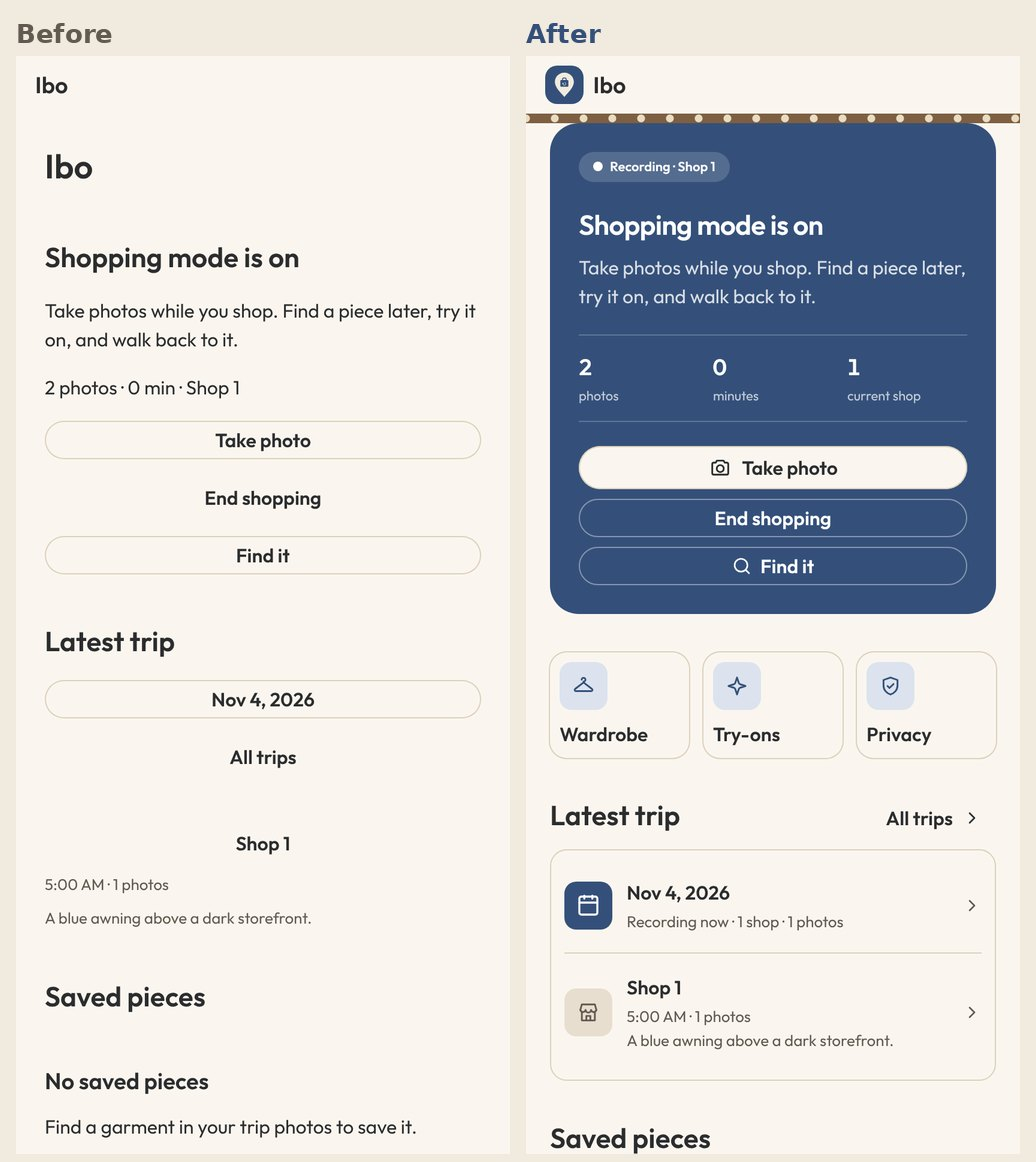
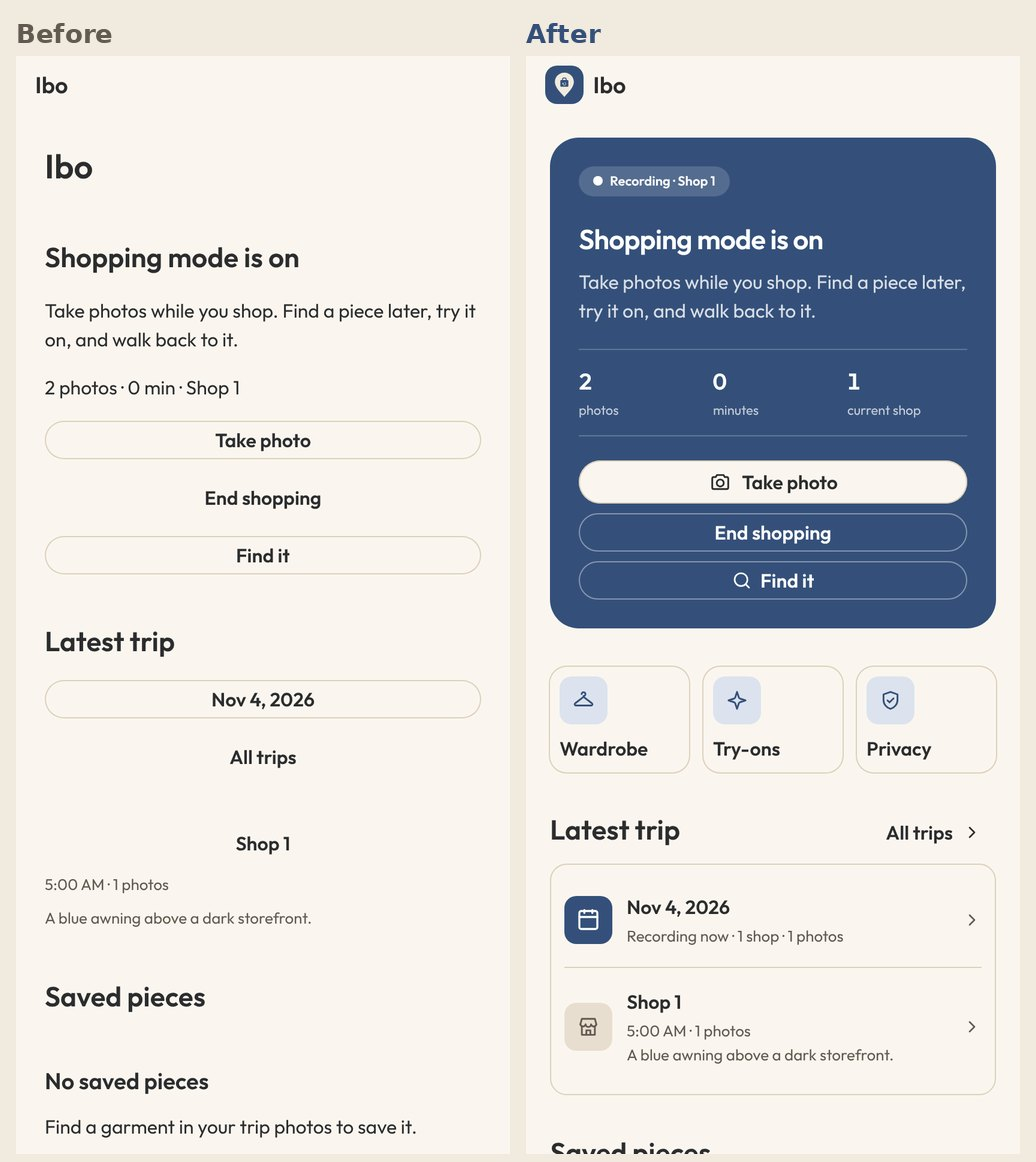
Smooth navigation and tap flows; remove the eave strip
- Back restores each page's scroll position; transitions follow direction
  (forward/back/replace) and returning screens skip list entrance motion.
- Ignore a duplicate push of the same page and a double-tapped Back.
- Trip lands on the chosen shop once, no longer jumping on every refresh
  or when coming back.
- Find it closes the keyboard on search, glides to results once, and
  Ask again returns focus to the search box. Pick scrolls to the photo
  when switching to tap mode.
- Sticky bottom bar for Pick's main action and Try on's Generate, with the
  reason Generate is unavailable shown beside it; toasts sit above it.
- Web runtime: load the App and Geolocation plugin web code while online,
  so opening Walk without a connection reaches its offline state.
- Remove the eave pattern strip under the top bar.
- Refresh before/after screenshots; add loading and flow captures.

Claude-Session: https://claude.ai/code/session_01NkTDXqwRET17FkWcUSqKbY

diff --git a/app/src/screens/Search.tsx b/app/src/screens/Search.tsx
@@ -7,7 +7,8 @@ import {candidateId} from '../data';
 import {imageUrl} from '../ui/images';
 import {useData, useUi} from '../ui/state';
 import {Spinner} from '@astryxdesign/core/Spinner';
-import {Action, Button, Chip, Confirm, Empty, Eyebrow, Heading, Hint, HStack, Icon, IconTile, Panel, Pop, Problem, Reveal, RowButton, SkeletonCard, SkeletonPhoto, SkeletonRows, SkeletonText, Text, TextInput, VStack} from '../ui/components';
+import {Action, Button, Chip, Confirm, Empty, Eyebrow, Heading, Hint, HStack, Icon, IconTile, Panel, Pop, Problem, Reveal, RowButton, SkeletonCard, StickyBar, SkeletonPhoto, SkeletonRows, SkeletonText, Text, TextInput, VStack} from '../ui/components';
+import {reducedMotion, returning} from '../ui/easing';
 import {ImageIcon, SendIcon, ShieldIcon, SparkleIcon, StoreIcon, TrashIcon} from '../ui/icons';
 
 type PickRoute = Extract<Route, {name: 'pick'}>;
@@ -338,6 +339,8 @@ export function Ask() {
     if (!query.trim()) return;
     setText(query);
     lastAttempt.current = {kind: 'text', query};
+    // Close the on-screen keyboard so the search progress and results are visible.
+    if (document.activeElement instanceof HTMLElement) document.activeElement.blur();
     if (!online) {setOperationError('offline'); return;}
     perform(() => agent.submit(query));
   };
@@ -346,7 +349,23 @@ export function Ask() {
     if (!online) {setOperationError('offline'); return;}
     perform(() => agent.startVoice());
   };
-  const askAgain = () => perform(async () => {await agent.cancel(); if (live.current) setText('');});
+  const searchBox = useRef<HTMLElement>(null);
+  const resultsTop = useRef<HTMLElement>(null);
+  const askAgain = () => perform(async () => {
+    await agent.cancel();
+    if (!live.current) return;
+    setText('');
+    // Bring the person back to the empty search box, ready to type.
+    searchBox.current?.scrollIntoView({block: 'center', behavior: reducedMotion() ? 'auto' : 'smooth'});
+    searchBox.current?.querySelector('input')?.focus({preventScroll: true});
+  });
+  // When a search finishes, glide to the answer once instead of leaving it below the fold.
+  const shownResults = useRef<string | null>(null);
+  useEffect(() => {
+    if (state.status !== 'results' || !state.query || shownResults.current === state.query || returning()) {if (state.status === 'results') shownResults.current = state.query; return;}
+    shownResults.current = state.query;
+    resultsTop.current?.scrollIntoView({block: 'start', behavior: reducedMotion() ? 'auto' : 'smooth'});
+  }, [state.status, state.query]);
   const status = operationError ? 'error' : state.status;
   const steps = operationError ? [] : searchSteps(state);
   const finished = status === 'results' || status === 'not_found' || status === 'error';
@@ -358,7 +377,9 @@ export function Ask() {
   return <VStack gap={5}>
     <Panel gap={3}>
       <HStack gap={2} vAlign="center"><Icon icon={SparkleIcon} size="sm" color="accent"/><Text type="supporting">Search across all your trips</Text></HStack>
+      <VStack ref={searchBox}>
       <TextInput type="search" label="Describe the item" value={text} onChange={setText} onEnter={() => submit()} placeholder="e.g. the jacket at the blue tarp stall" isDisabled={listening || transcribing} hasClear />
+      </VStack>
       <HStack gap={3} wrap="wrap">
         <Button label={listening ? 'Stop listening' : 'Speak'} variant={listening ? 'primary' : 'secondary'} icon={<Icon icon={listening ? 'stop' : 'microphone'}/>} isDisabled={transcribing || (status === 'running' && !listening)} onClick={() => {if (listening) perform(() => agent.stopVoice()); else startVoice();}} />
         <Button label="Find" variant={listening ? 'secondary' : 'primary'} icon={<Icon icon="search"/>} style={{flex: 1}} isDisabled={!text.trim() || listening || transcribing} onClick={() => submit()} />
@@ -382,7 +403,7 @@ export function Ask() {
       <Eyebrow>Try one of these</Eyebrow>
       {examples.map((example, index) => <Reveal key={example} index={index}><RowButton label={example} start={<Icon icon="search" size="sm" color="secondary"/>} end={<Icon icon={SendIcon} size="sm" color="secondary"/>} onClick={() => submit(example)} /></Reveal>)}
     </VStack>}
-    {status === 'results' && <VStack gap={4}>
+    {status === 'results' && <VStack gap={4} ref={resultsTop} style={{scrollMarginTop: 'var(--spacing-4)'}}>
       {state.summary && <Reveal from="scale"><HStack gap={3} vAlign="start" padding={4} style={{background: 'var(--color-hero)', color: 'var(--color-on-hero)', borderRadius: 'var(--radius-container)'}}><Icon icon={SparkleIcon} size="md" color="inherit"/><Text type="large" weight="semibold" color="inherit">{state.summary}</Text></HStack></Reveal>}
       {state.photos.map((photo, index) => <SearchResult key={photo.id} photo={photo} index={index} concept={state.concept} candidates={state.visibleCandidates.filter(candidate => candidate.photoId === photo.id)} allCandidates={state.candidates.filter(candidate => candidate.photoId === photo.id)} />)}
       {!state.photos.length && <Empty title="These photos are no longer available"><Text>Browse your trips or ask another question.</Text></Empty>}
@@ -398,6 +419,7 @@ export function Ask() {
 
 function PickPhoto({route, source}: {route: PickRoute; source: PickSource}) {
   const {services, online, push, back, popTo, deleted, say} = useUi();
+  const photoArea = useRef<HTMLElement>(null);
   const {photo, shop, trip} = source;
   const {id, file, w, h} = source.asset;
   const asset = useMemo(() => ({id, file, w, h}), [id, file, w, h]);
@@ -582,7 +604,7 @@ function PickPhoto({route, source}: {route: PickRoute; source: PickSource}) {
       }} />
       <Confirm title="Delete photo?" description="This photo will be removed from your trip. Saved items and their walking directions will stay." action="Delete photo" icon={<Icon icon={TrashIcon}/>} onConfirm={async () => {await lifecycle.current.tap; await services.store.deletePhoto({id: photo.id}); deleted('Photo', photo.id); say('Photo deleted');}} />
     </HStack>}
-    <PhotoSurface asset={asset} candidates={visibleCandidates} selected={selected} cache={cache} point={tapping ? point : null} disabled={saving || (tapping && (preparing || segmenting || Boolean(prepareError)))} onTap={tapping ? tap : undefined} onSelect={tapping ? undefined : setSelected} onReady={onReady} />
+    <VStack ref={photoArea} style={{scrollMarginTop: 'var(--spacing-4)'}}><PhotoSurface asset={asset} candidates={visibleCandidates} selected={selected} cache={cache} point={tapping ? point : null} disabled={saving || (tapping && (preparing || segmenting || Boolean(prepareError)))} onTap={tapping ? tap : undefined} onSelect={tapping ? undefined : setSelected} onReady={onReady} /></VStack>
     {tapping && !point && <Chip tone="accent">Tap the item in the photo</Chip>}
     {preparing && <HStack gap={2} vAlign="center"><Spinner size="sm" aria-label="Preparing"/><Text role="status" type="supporting">Preparing on-device item selection…</Text></HStack>}
     {prepareError && <Problem message={errorMessage(prepareError)} retry={() => setPrepareAttempt(value => value + 1)} />}
@@ -599,13 +621,15 @@ function PickPhoto({route, source}: {route: PickRoute; source: PickSource}) {
       /></Reveal>)}
       {choices.length > 3 && <Button label={showAll ? 'Show first 3' : `Show all (${choices.length})`} variant="secondary" isDisabled={saving} onClick={() => {setShowAll(value => !value); if (showAll && selected && !choices.slice(0, 3).some(choice => choice.candidate.id === selected)) setSelected(null);}} />}
     </VStack>}
-    {matches.length > 0 && <Button label={tapping ? 'Show matches' : 'Not here? Tap it'} variant="ghost" isDisabled={saving} onClick={() => {clearTap(); setTapping(value => !value); setShowAll(false); if (tapping) setSelected(matches[0]?.id ?? null);}} />}
+    {matches.length > 0 && <Button label={tapping ? 'Show matches' : 'Not here? Tap it'} variant="ghost" isDisabled={saving} onClick={() => {clearTap(); setTapping(value => !value); setShowAll(false); if (tapping) setSelected(matches[0]?.id ?? null); else requestAnimationFrame(() => photoArea.current?.scrollIntoView({block: 'start', behavior: reducedMotion() ? 'auto' : 'smooth'}));}} />}
     {tapping && (tapChoices.length > 0 || segmenting) && <Button label="Cancel area selection" variant="ghost" isDisabled={saving} onClick={clearTap} />}
+    <StickyBar>
     {atLimit && <Problem message="Your outfit already has five companion pieces. Return to the outfit to remove one first." />}
     {saveError && <Problem message={errorMessage(saveError)} retry={maskReady && !atLimit ? complete : undefined} />}
     {chosen && !route.concept && <Text type="supporting">This will be saved as “Picked item” while its name and category are prepared. You can edit them after saving.</Text>}
     <Button label={route.mode === 'wardrobe' ? 'Add to wardrobe' : route.mode === 'outfit' ? 'Add to outfit' : 'Use this item'} variant="primary" size="lg" isLoading={saving} isDisabled={!chosen || !maskReady || segmenting || atLimit} onClick={complete} />
     <Button label={route.mode === 'outfit' ? 'Cancel and return to outfit' : 'Cancel'} variant="ghost" onClick={() => {if (route.mode === 'outfit') popTo('outfit'); else back();}} />
+    </StickyBar>
   </VStack>;
 }
 

diff --git a/app/src/ui/Shell.tsx b/app/src/ui/Shell.tsx
@@ -3,6 +3,7 @@ import {useEffect, useRef} from 'react';
 import type {ReactNode} from 'react';
 import {App as CapacitorApp} from '@capacitor/app';
 import {Capacitor} from '@capacitor/core';
+import {Geolocation} from '@capacitor/geolocation';
 import {AppShell} from '@astryxdesign/core/AppShell';
 import {TopNav,TopNavHeading} from '@astryxdesign/core/TopNav';
 import {BottomSheet} from '@astryxdesign/core/BottomSheet';
@@ -24,33 +25,72 @@ export function Shell({children}:{children:ReactNode}) {
     const escape=(event:KeyboardEvent)=>{if(event.key==='Escape'&&!document.querySelector('dialog[open]'))backRef.current();};
     window.addEventListener('keydown',escape);
     const listener=Capacitor.isNativePlatform()?CapacitorApp.addListener('backButton',()=>backRef.current()):null;
+    // Web runtime only: Capacitor loads each plugin's web code on first use. Load the ones Walk needs now,
+    // while online, so opening Walk later without a connection still reaches its offline state instead of failing.
+    if(!Capacitor.isNativePlatform()){void CapacitorApp.getState().catch(()=>{});void Geolocation.checkPermissions().catch(()=>{});}
     return()=>{window.removeEventListener('keydown',escape);void listener?.then(handle=>handle.remove());};
   },[]);
+  // Remember where each page in the stack was scrolled, so Back returns to the same spot instead of the top.
+  const positions=useRef<number[]>([]);
+  const depth=useRef(stack.length);
   useEffect(()=>{
-    body.current?.scrollIntoView({block:'start'});
-    if(route.name!=='capture'&&!window.matchMedia('(prefers-reduced-motion: reduce)').matches) body.current?.animate([{opacity:0,transform:'translateX(2%)'},{opacity:1,transform:'none'}],{duration:240,easing:EASE_OUT});
+    const save=(event:Event)=>{const target=event.target;if(target instanceof HTMLElement&&body.current&&target.contains(body.current))positions.current[depth.current-1]=target.scrollTop;};
+    window.addEventListener('scroll',save,true);
+    return()=>window.removeEventListener('scroll',save,true);
+  },[]);
+  useEffect(()=>{
+    const previous=depth.current;depth.current=stack.length;
+    const direction=stack.length>previous?'forward':stack.length<previous?'back':'replace';
+    positions.current.length=stack.length;
+    const scroller=scrollParent(body.current);
+    let frame=0;
+    if(direction==='back'&&scroller&&positions.current[stack.length-1]){
+      // The page re-renders from saved data; keep trying for a moment until it is tall enough to restore.
+      const target=positions.current[stack.length-1];let tries=0;
+      const restore=()=>{scroller.scrollTop=target;if(Math.abs(scroller.scrollTop-target)>2&&tries++<45)frame=requestAnimationFrame(restore);};
+      restore();
+    }else{
+      positions.current[stack.length-1]=0;
+      if(scroller)scroller.scrollTop=0;else body.current?.scrollIntoView({block:'start'});
+    }
+    if(route.name!=='capture'&&!reducedMotion()){
+      const offset=direction==='forward'?'1.5rem':direction==='back'?'-1.5rem':'0';
+      body.current?.animate([{opacity:0,transform:`translateX(${offset})`},{opacity:1,transform:'none'}],{duration:direction==='replace'?180:280,easing:EASE_OUT});
+    }
     if(!stack.some(entry=>entry.name==='ask'||entry.name==='pick'))void services.agent.cancel().catch(()=>{});
+    return()=>cancelAnimationFrame(frame);
   },[route,stack,services]);
   const home=route.name==='home';
   const brand=<TopNavHeading heading="Ibo" logo={<VStack aria-hidden align="center" justify="center" width="var(--spacing-8)" height="var(--spacing-8)" style={{background:'var(--color-hero)',borderRadius:'var(--radius-element)'}}><IboMark size={26}/></VStack>}/>;
   const heading=stack.length>1?<IconButton label="Back" variant="ghost" icon={<Icon icon={ArrowBackIcon}/>} onClick={back}/>:brand;
-  const nav=<VStack width="100%"><TopNav label="Ibo navigation" heading={heading}/><VStack aria-hidden width="100%" height="var(--spacing-2)" style={{background:'var(--pattern-eave)'}}/></VStack>;
+  const nav=<TopNav label="Ibo navigation" heading={heading}/>;
   return <AppShell variant="surface" contentPadding={capturing?3:5} mobileNav={false} topNav={nav} banner={!online?<HStack gap={2} vAlign="center" hAlign="center" paddingBlock={2} paddingInline={4} style={{background:'var(--color-warning-muted)',color:'var(--color-on-warning-muted)'}}><Icon icon={WifiOffIcon} size="sm" color="inherit"/><Text type="label" size="sm" color="inherit">You’re offline. Saved photos and pieces are still available.</Text></HStack>:undefined}>
     <VStack gap={capturing?3:8} width="100%" height={capturing?'100%':undefined} minHeight={capturing?0:undefined} maxWidth="var(--layout-max-width, 40rem)" ref={body} data-route={route.name} style={{marginInline:'auto',paddingBottom:capturing?undefined:'var(--spacing-10)'}}>
       {home||capturing?<VisuallyHidden><Heading level={1}>{titles[route.name]}</Heading></VisuallyHidden>:<Heading level={1} style={{letterSpacing:'-0.02em'}}>{titles[route.name]}</Heading>}
       {children}
     </VStack>
-    {toast&&<Toast key={toast} text={toast} capturing={capturing}/>}
+    {toast&&<Toast key={toast} text={toast} raised={capturing||route.name==='pick'||route.name==='outfit'}/>}
     <BottomSheet isOpen={sheet!==null} onOpenChange={open=>{if(!open)showSheet(null);}} label={sheet?.title??'Options'} purpose="form" padding={6}>{sheet&&<VStack gap={4}><Heading level={2}>{sheet.title}</Heading>{sheet.content}<Button label="Close" variant="ghost" onClick={()=>showSheet(null)}/></VStack>}</BottomSheet>
   </AppShell>;
 }
 
-function Toast({text,capturing}:{text:string;capturing:boolean}) {
+function Toast({text,raised}:{text:string;raised:boolean}) {
   const pill=useRef<HTMLElement>(null);
   useEffect(()=>{
     if(reducedMotion())return;
     const animation=pill.current?.animate([{opacity:0,transform:'translate(-50%, 1rem) scale(0.96)'},{opacity:1,transform:'translate(-50%, 0) scale(1)'}],{duration:320,easing:EASE_SPRING});
     return()=>animation?.cancel();
   },[]);
-  return <HStack ref={pill} role="status" gap={2} vAlign="center" paddingInline={4} paddingBlock={3} style={{position:'fixed',left:'50%',transform:'translateX(-50%)',bottom:capturing?'calc(var(--spacing-12) * 2 + var(--spacing-6))':'var(--spacing-6)',maxWidth:'calc(100% - var(--spacing-10))',width:'max-content',background:'var(--color-background-inverted)',color:'var(--color-on-dark)',borderRadius:'var(--radius-full)',boxShadow:'var(--shadow-high)',zIndex:20,pointerEvents:'none'}}><Icon icon="check" size="sm" color="inherit"/><Text type="label" color="inherit">{text}</Text></HStack>;
+  return <HStack ref={pill} role="status" gap={2} vAlign="center" paddingInline={4} paddingBlock={3} style={{position:'fixed',left:'50%',transform:'translateX(-50%)',bottom:raised?'calc(var(--spacing-12) * 2 + var(--spacing-6))':'var(--spacing-6)',maxWidth:'calc(100% - var(--spacing-10))',width:'max-content',background:'var(--color-background-inverted)',color:'var(--color-on-dark)',borderRadius:'var(--radius-full)',boxShadow:'var(--shadow-high)',zIndex:20,pointerEvents:'none'}}><Icon icon="check" size="sm" color="inherit"/><Text type="label" color="inherit">{text}</Text></HStack>;
+}
+
+function scrollParent(element:HTMLElement|null):HTMLElement|null {
+  let current=element?.parentElement??null;
+  while(current){
+    const overflow=getComputedStyle(current).overflowY;
+    if(overflow==='auto'||overflow==='scroll')return current;
+    current=current.parentElement;
+  }
+  const page=document.scrollingElement;
+  return page instanceof HTMLElement?page:null;
 }

diff --git a/app/src/screens/Fitting.tsx b/app/src/screens/Fitting.tsx
@@ -10,7 +10,7 @@ import {Spinner} from '@astryxdesign/core/Spinner';
 import {Skeleton} from '@astryxdesign/core/Skeleton';
 import {Sweep} from '../ui/motion';
 import {Divider} from '@astryxdesign/core/Divider';
-import {Action, Button, Chip, Confirm, EditFields, Empty, Heading, Hint, HStack, Icon, IconTile, Media, Panel, PhotoView, Pop, Problem, Reveal, Section, SkeletonPhoto, SkeletonRows, SkeletonText, Text, Thumbnail, VStack} from '../ui/components';
+import {Action, Button, Chip, Confirm, EditFields, Empty, Heading, Hint, HStack, Icon, IconTile, Media, Panel, PhotoView, Pop, Problem, Reveal, Section, SkeletonPhoto, SkeletonRows, SkeletonText, StickyBar, Text, Thumbnail, VStack} from '../ui/components';
 import {CameraIcon, HangerIcon, ImageIcon, LockIcon, NoteIcon, PencilIcon, PinIcon, PlusIcon, RouteIcon, ShieldIcon, SparkleIcon, TrashIcon} from '../ui/icons';
 
 const MAX_COMPANIONS = 5;
@@ -211,6 +211,8 @@ export function Outfit() {
   const allCompanionsExist = companionIds.every(id => pieces.data?.pieces.some(piece => piece.id === id));
   const ready = !pieces.loading && !pieces.error && !refreshError && target?.origin === 'shop' && state.selfState === 'ready' && !!state.selfPhoto && companionIds.length <= MAX_COMPANIONS && allCompanionsExist && !busy && online;
   const steps = [state.selfState === 'ready' && !!state.selfPhoto, target?.origin === 'shop', companionIds.length > 0];
+  // Say why Generate is unavailable right next to it, instead of leaving a silently disabled button.
+  const blocker = !online ? 'Connect to the internet to generate your look.' : state.selfState !== 'ready' || !state.selfPhoto ? 'Add a full-body photo of yourself to generate.' : target?.origin !== 'shop' ? 'Choose a saved shop piece as the target first.' : !allCompanionsExist ? 'Remove the companion that is no longer saved.' : 'Your photo and pieces are being refreshed.';
   return <>
     <VStack gap={3}>
       <Text type="large">One shop piece. Your own combination.</Text>
@@ -247,11 +249,14 @@ export function Outfit() {
         <Button label="Add a companion" variant="secondary" icon={<Icon icon={PlusIcon}/>} isDisabled={!target || busy || companionIds.length >= MAX_COMPANIONS} onClick={() => showSheet({title: 'Wear with it', content: <CompanionChooser/>})}/>
       </Section>
     </>}
+    <StickyBar>
     {generating(state) && <Reveal from="scale"><VStack role="status" aria-live="polite" gap={3} padding={5} style={{background: 'var(--color-hero)', color: 'var(--color-on-hero)', borderRadius: 'var(--radius-container)'}}><HStack gap={3} vAlign="center"><Spinner size="lg" shade="inherit" aria-label="Generating"/><Text type="label" weight="semibold" color="inherit">{phases[state.phase]}</Text></HStack><HStack gap={1}>{(['preparing', 'sending', 'compositing', 'saving'] as const).map((phase, index, all) => <VStack key={phase} height="var(--spacing-1)" style={{flex: 1, borderRadius: 'var(--radius-full)', overflow: 'hidden', transition: 'background 400ms ease', background: all.indexOf(state.phase as typeof phase) > index ? 'var(--color-on-hero)' : 'color-mix(in srgb, var(--color-on-hero) 25%, transparent)'}}>{all.indexOf(state.phase as typeof phase) === index && <Sweep/>}</VStack>)}</HStack><Text size="sm" style={{color: 'color-mix(in srgb, var(--color-on-hero) 78%, transparent)'}}>Your original photo, face and hair stay on this phone.</Text><Button label="Cancel generation" variant="secondary" onClick={() => services.fitting.cancel()}/></VStack></Reveal>}
     {state.phase === 'cancelled' && <Hint>{phases.cancelled}</Hint>}
     {state.error && errorCode(state.error) !== 'cancelled' && state.selfState !== 'failed' && <Problem message={fittingError(state.error.code)}/>}
+    {!ready && !busy && !pieces.loading && <Hint icon="info">{blocker}</Hint>}
     <Action label="Generate" size="lg" icon={<Icon icon={SparkleIcon}/>} disabled={!ready} run={async () => {const result = await services.fitting.generate(); if (result && alive.current) popTo('outfit', {name: 'result', resultId: result.id});}}/>
     <Hint icon={ShieldIcon}>One face-and-hair-removed photo, your target and up to 5 companion cut-outs are sent for generation.</Hint>
+    </StickyBar>
   </>;
 }
 

diff --git a/app/src/ui/state.tsx b/app/src/ui/state.tsx
@@ -1,4 +1,5 @@
-import {createContext, useContext, useEffect, useMemo, useState} from 'react';
+import {createContext, useContext, useEffect, useMemo, useRef, useState} from 'react';
+import {markNavigation} from './easing';
 import type {ReactNode} from 'react';
 import {Network} from '@capacitor/network';
 import {config} from '../config';
@@ -18,6 +19,7 @@ export function UiProvider({services, children}:{services:Services; children:Rea
   const [session,setSession] = useState<SessionState|null>(null);
   const [online,setOnline] = useState(navigator.onLine);
   const [revision,setRevision] = useState(0);
+  const lastBack = useRef(0);
   useEffect(()=>{if (!toast) return; const timer=window.setTimeout(()=>setToast(null),2600); return ()=>window.clearTimeout(timer);},[toast]);
   useEffect(()=>{
     let live=true;
@@ -54,12 +56,18 @@ export function UiProvider({services, children}:{services:Services; children:Rea
     return()=>{delete host.__sfVerification;};
   },[services,stack,sheet,session,online]);
   const value=useMemo<State>(()=>({services,stack,route:stack[stack.length-1],sheet,toast,session,online,revision,
-    push:route=>{setSheet(null);setStack(current=>pushRoute(current,route));},
-    back:()=>{if(sheet)setSheet(null);else setStack(popRoute);},
-    popTo:(name,next)=>{setSheet(null);setStack(current=>returnTo(current,name,next));},
+    // A second tap on the same target while the screen is changing must not stack a duplicate page.
+    push:route=>{setSheet(null);markNavigation(route.name==='home'?'back':'push');setStack(current=>sameRoute(current[current.length-1],route)?current:pushRoute(current,route));},
+    // Back closes an open sheet first; a fast double tap pops one page, not two.
+    back:()=>{if(sheet){setSheet(null);return;}const now=performance.now();if(now-lastBack.current<250)return;lastBack.current=now;markNavigation('back');setStack(popRoute);},
+    popTo:(name,next)=>{setSheet(null);markNavigation(next?'push':'back');setStack(current=>returnTo(current,name,next));},
     deleted:(entity,id)=>{setSheet(null);setStack(current=>pruneDeleted(current,entity,id));},
     showSheet:next=>{setToast(null);setSheet(next);},say:setToast}),[services,stack,sheet,toast,session,online,revision]);
   return <Context.Provider value={value}>{children}</Context.Provider>;
+}
+function sameRoute(left:Route|undefined,right:Route):boolean {
+  if(!left||left.name!==right.name)return false;
+  try {return JSON.stringify(left)===JSON.stringify(right);} catch {return false;}
 }
 export function useUi():State {const value=useContext(Context);if(!value)throw new Error('UI provider missing');return value;}
 export function useData<T>(read:()=>Promise<T>,keys:readonly unknown[]) {

diff --git a/app/src/screens/Shopping.tsx b/app/src/screens/Shopping.tsx
@@ -6,6 +6,7 @@ import type {CSSProperties} from 'react';
 import {Grid} from '@astryxdesign/core/Grid';
 import {Divider} from '@astryxdesign/core/Divider';
 import {Thumbnail,Action,Button,Chip,Confirm,EditFields,Empty,Eyebrow,Heading,Hint,HStack,Icon,IconTile,Loading,Media,Panel,PhotoView,Problem,Reveal,RowButton,Section,SkeletonGrid,SkeletonPhoto,SkeletonRows,SkeletonText,Stat,Text,TileButton,VStack} from '../ui/components';
+import {reducedMotion,returning} from '../ui/easing';
 import {BagIcon,CameraIcon,HangerIcon,NoteIcon,PinIcon,ShieldIcon,SparkleIcon,StoreIcon,TrashIcon,PencilIcon,ImageIcon} from '../ui/icons';
 
 function failureCode(error:unknown):string {
@@ -122,7 +123,9 @@ function ShopSection({shop,forOutfit}:{shop:Shop;forOutfit?:boolean}) {
 }
 export function Trip({route}:{route:Extract<Route,{name:'trip'}>}) {
   const {services,deleted,popTo,push}=useUi();const data=useData(async()=>({trip:await services.store.get({entity:'Trip',id:route.tripId}),shops:await listAll(services,'Shop',{tripId:route.tripId})}),[services,route.tripId]);
-  useEffect(()=>{if(data.data&&route.shopId)document.getElementById(`shop-${route.shopId}`)?.scrollIntoView({block:'start'});},[data.data,route.shopId]);
+  // Land on the chosen shop once. Later refreshes (a note saved, a description arriving) and coming Back must not jump the page.
+  const landed=useRef(returning());
+  useEffect(()=>{if(landed.current||!data.data||!route.shopId)return;landed.current=true;document.getElementById(`shop-${route.shopId}`)?.scrollIntoView({block:'start',behavior:reducedMotion()?'auto':'smooth'});},[data.data,route.shopId]);
   if(data.loading&&!data.data)return <><VStack gap={3}><SkeletonText lines={1} width="60%"/><SkeletonText lines={2} width="90%" index={1}/></VStack><SkeletonPhoto height="40dvh" label="Loading trip"/><SkeletonRows count={1}/></>;if(data.error)return <Problem message={data.error} retry={data.retry}/>;
   if(!data.data?.trip)return <Empty title="This trip is no longer available"><Button label="All trips" onClick={()=>popTo('home',{name:'trips'})}/></Empty>;
   const live=data.data.trip.status==='recording';

diff --git a/app/src/ui/motion.tsx b/app/src/ui/motion.tsx
@@ -2,7 +2,7 @@
 // is needed, and every effect is skipped when the person asks for reduced motion.
 import {useEffect, useRef, useState} from 'react';
 import type {CSSProperties, ReactNode} from 'react';
-import {EASE_OUT, EASE_SPRING, reducedMotion} from './easing';
+import {EASE_OUT, EASE_SPRING, reducedMotion, returning} from './easing';
 import {VStack} from '@astryxdesign/core/VStack';
 
 
@@ -10,7 +10,7 @@ import {VStack} from '@astryxdesign/core/VStack';
 export function Reveal({children, index = 0, gap, from = 'below', style}: {children: ReactNode; index?: number; gap?: 0 | 1 | 2 | 3 | 4; from?: 'below' | 'scale'; style?: CSSProperties}) {
   const element = useRef<HTMLElement>(null);
   useEffect(() => {
-    if (reducedMotion()) return;
+    if (reducedMotion() || returning()) return;
     const start = from === 'scale' ? 'scale(0.96)' : 'translateY(0.75rem)';
     const animation = element.current?.animate([{opacity: 0, transform: start}, {opacity: 1, transform: 'none'}], {duration: 320, delay: Math.min(index, 8) * 45, easing: EASE_OUT, fill: 'backwards'});
     return () => animation?.cancel();
@@ -26,7 +26,7 @@ export function Pop({children}: {children: ReactNode}) {
     const animation = element.current?.animate([{transform: 'scale(0.4)', opacity: 0}, {transform: 'scale(1)', opacity: 1}], {duration: 280, easing: EASE_SPRING});
     return () => animation?.cancel();
   }, []);
-  return <VStack as="span" ref={element} align="center" justify="center">{children}</VStack>;
+  return <VStack as="span" ref={element} align="center" justify="center" style={{display: 'inline-flex', verticalAlign: 'middle'}}>{children}</VStack>;
 }
 
 /** Endless soft opacity breathing, for "in progress" segments. */

diff --git a/app/src/ui/components.tsx b/app/src/ui/components.tsx
@@ -185,6 +185,11 @@ export function EditFields({label, category, onSave}: {label: string; category?:
   return <VStack gap={4}>{category === undefined && <Text type="supporting">Anything that helps you find it again.</Text>}<TextInput label={category === undefined ? 'Note' : 'Name'} placeholder={category === undefined ? 'e.g. cash only, army jackets at the back' : undefined} value={name} onChange={setName}/>{category !== undefined && <TextInput label="Category" value={kind} onChange={setKind}/>}<Action label="Save" disabled={!name.trim()} run={async () => {await onSave(name.trim(), kind.trim()); showSheet(null); say(category === undefined ? 'Note saved' : 'Changes saved');}}/><Button label="Cancel" variant="secondary" onClick={() => showSheet(null)}/></VStack>;
 }
 
+/** Keeps a screen's main action within thumb reach at the bottom while the page scrolls. */
+export function StickyBar({children}: {children: ReactNode}) {
+  return <VStack gap={2} paddingBlock={3} style={{position: 'sticky', bottom: 'calc(-1 * var(--spacing-5))', zIndex: 5, marginInline: 'calc(-1 * var(--spacing-5))', marginBottom: 'calc(-1 * var(--spacing-10))', paddingInline: 'var(--spacing-5)', paddingBottom: 'calc(var(--spacing-5) + var(--spacing-3))', background: 'var(--color-background-surface)', borderTop: 'thin solid var(--color-border)'}}>{children}</VStack>;
+}
+
 /* ---------- Skeletons: same footprint as the content they stand in for ---------- */
 
 /** Screen-reader announcement for a skeleton block (the shapes themselves are decorative). */

diff --git a/app/src/ui/easing.ts b/app/src/ui/easing.ts
@@ -9,6 +9,11 @@ export function reducedMotion() {
   return typeof window === 'undefined' || window.matchMedia('(prefers-reduced-motion: reduce)').matches;
 }
 
+/** Last navigation, so entrance effects can stay quiet when a person returns to a screen they already saw. */
+export const navigation = {direction: 'push' as 'push' | 'back', at: 0};
+export function markNavigation(direction: 'push' | 'back') { navigation.direction = direction; navigation.at = performance.now(); }
+export function returning() { return navigation.direction === 'back' && performance.now() - navigation.at < 800; }
+
 /** Pointer handlers that give a pressable surface a quick squeeze. */
 export const pressFeedback = {
   onPointerDown(event: PointerEvent<HTMLElement>) {
